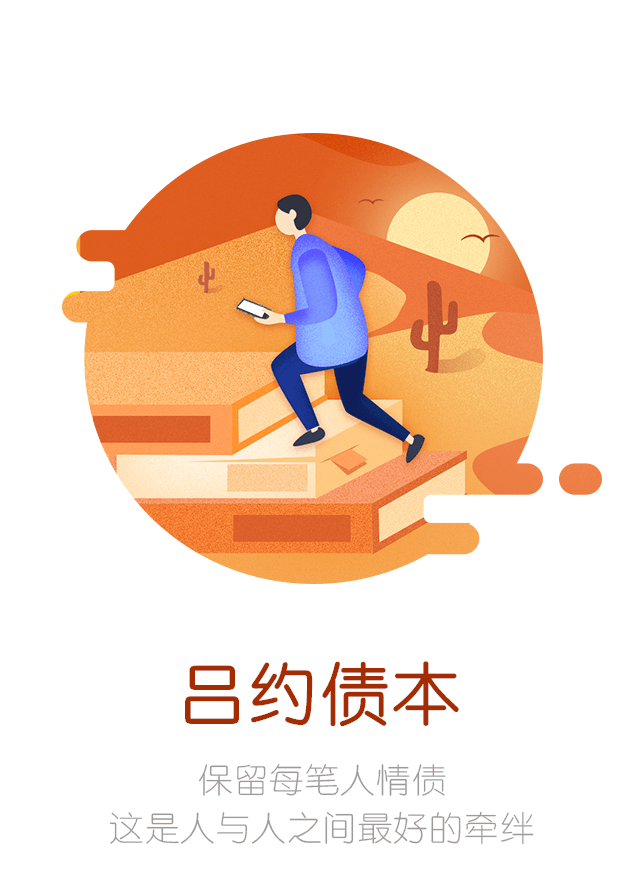
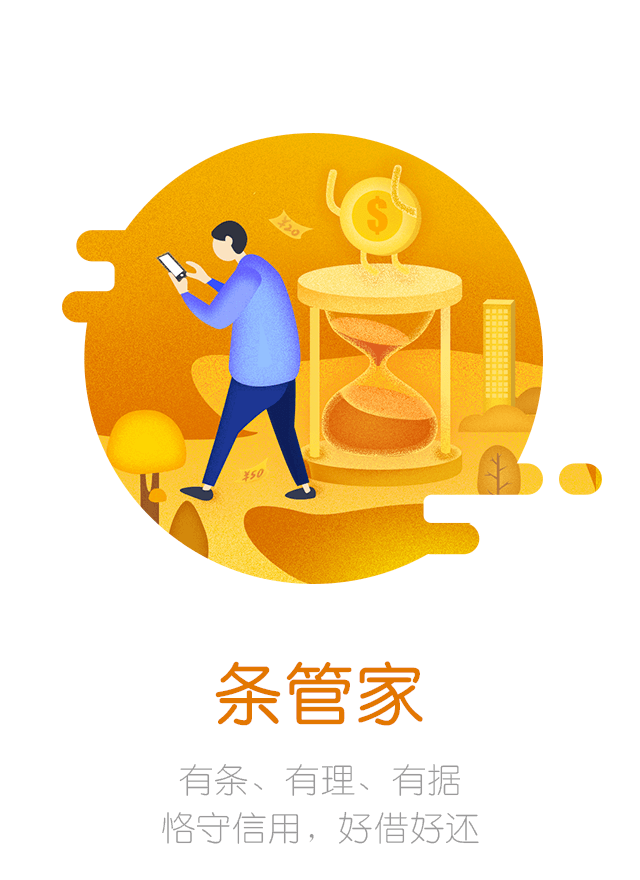
修改素材

diff --git a/library/src/main/java/com/hm/iou/loginmodule/business/guide/GuidePresenter.java b/library/src/main/java/com/hm/iou/loginmodule/business/guide/GuidePresenter.java
@@ -94,16 +94,6 @@ public class GuidePresenter extends BaseLoginModulePresenter<GuideContract.View>
                     public String getImage() {
                         return bean.getImageUrl();
                     }
-
-                    @Override
-                    public String getTitle() {
-                        return bean.getTitle();
-                    }
-
-                    @Override
-                    public String getMsg() {
-                        return bean.getMsg();
-                    }
                 };
                 listData.add(item);
                 ImageLoader.getInstance(mContext).fetchImage(bean.getImageUrl());

diff --git a/library/src/main/java/com/hm/iou/loginmodule/bean/GuidePageBean.java b/library/src/main/java/com/hm/iou/loginmodule/bean/GuidePageBean.java
@@ -8,8 +8,4 @@ import lombok.Data;
 public class GuidePageBean {
 
     private String imageUrl;
-
-    private String title;
-
-    private String msg;
 }

diff --git a/library/src/main/java/com/hm/iou/loginmodule/business/guide/view/IGuidePageItem.java b/library/src/main/java/com/hm/iou/loginmodule/business/guide/view/IGuidePageItem.java
@@ -8,8 +8,4 @@ public interface IGuidePageItem {
 
     String getImage();
 
-
-    String getTitle();
-
-    String getMsg();
 }
